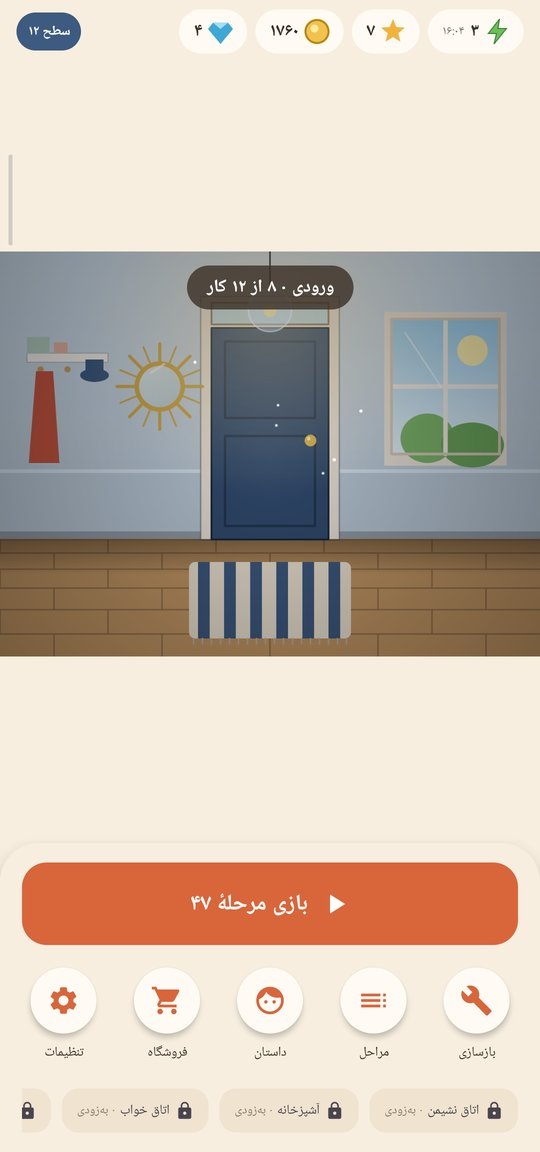
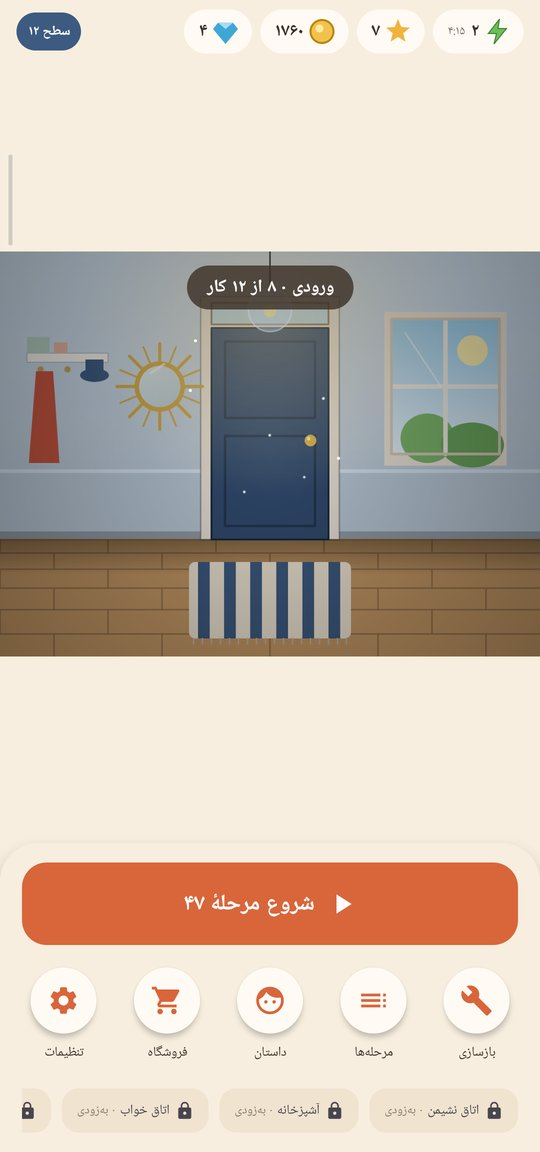
Rewrite site copy in a more natural voice (English and Persian)

diff --git a/app.js b/app.js
@@ -4,28 +4,25 @@ const INTL_LOCALE = { en: "en", fa: "fa-IR" };
 
 const STRINGS = {
   en: {
-    "meta.title": "Hotarego Games — cozy indie mobile games",
-    "meta.description": "Hotarego Games is an indie studio making cozy puzzle games for Android, named after Hotarego in Hormozgan, Iran.",
+    "meta.title": "Hotarego Games",
+    "meta.description": "We make puzzle games for Android. Our first one, Dream Home, is on the way.",
     "lang.label": "Language",
     "lang.system": "System default",
     "hero.logoAlt": "Hotarego Games logo: mountains, date palms, village houses and a stream",
     "hero.title": "Hotarego Games",
-    "hero.tagline": "Cozy puzzle games for Android, from a small indie studio named after Hotarego in Hormozgan, Iran.",
-    "hero.linksLabel": "Studio links",
-    "hero.seeGames": "See the games",
+    "hero.tagline": "We make puzzle games for Android. Right now that means Dream Home.",
+    "hero.linksLabel": "Links",
+    "hero.seeGames": "Our games",
     "hero.github": "GitHub",
     "games.title": "Games",
-    "games.loading": "Loading games…",
-    "games.empty": "New games are on the way.",
-    "games.error": "Couldn't load the game list. Please refresh.",
-    "about.title": "Why “Hotarego”?",
+    "games.loading": "Loading…",
+    "games.empty": "Nothing here yet. Check back soon.",
+    "games.error": "The game list didn't load. Try refreshing the page.",
+    "about.title": "Where the name comes from",
     "about.origin":
-      'Hotarego (<span lang="fa" dir="rtl">هوتارگو</span>) is the local name of a place in the north-east of Hormozgan province, Iran. ' +
-      'Its Persian name is Ābtārikān (<span lang="fa" dir="rtl">آبتاریکان</span>). We named our studio after it.',
-    "about.craft": "We make small, handcrafted games that are easy to pick up, satisfying to master and made to be enjoyed at your own pace.",
-    "about.fair": "Fair, transparent game economies",
-    "about.handcrafted": "Handcrafted, tested content",
-    "about.cozy": "Cozy art and calm sound",
+      'Hotarego (<span lang="fa" dir="rtl">هوتارگو</span>) is what locals call a place in the north-east of Hormozgan, Iran. ' +
+      'In Persian it\'s Ābtārikān (<span lang="fa" dir="rtl">آبتاریکان</span>). We named ourselves after it.',
+    "about.craft": "We like puzzle games you can play on a short break, so that's the kind we make.",
     "lightbox.label": "Screenshot",
     "lightbox.close": "Close",
     "status.released": "Released",
@@ -44,31 +41,28 @@ const STRINGS = {
     footer: (year) => `© ${year} Hotarego Games`,
   },
   fa: {
-    "meta.title": "بازیهای هوتارگو — بازیهای موبایلی دنج و مستقل",
-    "meta.description": "بازیهای هوتارگو یک استودیوی مستقل است که بازیهای پازل دنج برای اندروید میسازد و نامش را از هوتارگو در هرمزگان ایران گرفته است.",
+    "meta.title": "بازیهای هوتارگو",
+    "meta.description": "برای اندروید بازی پازلی میسازیم. اولینش، «خانهٔ رؤیایی»، در راه است.",
     "lang.label": "زبان",
-    "lang.system": "پیشفرض دستگاه",
+    "lang.system": "زبان دستگاه",
     "hero.logoAlt": "نشان بازیهای هوتارگو: کوهها، نخلها، خانههای روستا و یک جوی آب",
     "hero.title": "بازیهای هوتارگو",
-    "hero.tagline": "بازیهای پازل دنج برای اندروید، از یک استودیوی مستقل کوچک که نامش را از هوتارگو در هرمزگان ایران گرفته است.",
-    "hero.linksLabel": "پیوندهای استودیو",
-    "hero.seeGames": "دیدن بازیها",
+    "hero.tagline": "برای اندروید بازی پازلی میسازیم. فعلاً سرمان گرم «خانهٔ رؤیایی» است.",
+    "hero.linksLabel": "پیوندها",
+    "hero.seeGames": "بازیهایمان",
     "hero.github": "گیتهاب",
     "games.title": "بازیها",
-    "games.loading": "در حال بارگذاری بازیها…",
-    "games.empty": "بازیهای تازه در راهاند.",
-    "games.error": "فهرست بازیها بارگذاری نشد. لطفاً صفحه را دوباره باز کنید.",
-    "about.title": "چرا «هوتارگو»؟",
-    "about.origin": "هوتارگو نام محلی جایی در شمالشرقی استان هرمزگان ایران است. نام فارسی آن «آبتاریکان» است. ما نام استودیومان را از آن گرفتهایم.",
-    "about.craft": "ما بازیهای کوچک و دستسازی میسازیم که شروعشان آسان است، استاد شدن در آنها لذتبخش است و میشود با حوصلهٔ خودتان از آنها لذت ببرید.",
-    "about.fair": "اقتصاد بازی منصفانه و شفاف",
-    "about.handcrafted": "محتوای دستساز و آزموده",
-    "about.cozy": "تصاویر دنج و صدای آرام",
+    "games.loading": "یک لحظه…",
+    "games.empty": "هنوز بازیای اینجا نیست. بهزودی سر بزنید.",
+    "games.error": "فهرست بازیها باز نشد. صفحه را یک بار دیگر باز کنید.",
+    "about.title": "اسم «هوتارگو» از کجا آمده؟",
+    "about.origin": "هوتارگو اسم محلی جایی در شمالشرق هرمزگان است؛ در فارسی به آن «آبتاریکان» میگویند. اسم گروهمان را از همانجا برداشتهایم.",
+    "about.craft": "خودمان بازیهای پازلی را دوست داریم که بشود توی یک استراحت کوتاه بازیشان کرد؛ بازیهای خودمان را هم همینطوری میسازیم.",
     "lightbox.label": "تصویر بازی",
     "lightbox.close": "بستن",
     "status.released": "منتشر شده",
     "status.beta": "بتا",
-    "status.in-development": "در حال ساخت",
+    "status.in-development": "در دست ساخت",
     "status.concept": "ایده",
     "link.playStore": "گوگلپلی",
     "link.download": "دانلود",
@@ -76,7 +70,7 @@ const STRINGS = {
     "link.repo": "کد منبع",
     gameCount: (n) => `${n.toLocaleString("fa-IR")} بازی`,
     version: (v) => `نسخهٔ ${v}`,
-    updated: (date) => `بهروزرسانی: ${date}`,
+    updated: (date) => `آخرین تغییر: ${date}`,
     shotAlt: (title, i) => `تصویر ${i} از ${title}`,
     shotOpen: (title, i) => `باز کردن تصویر ${i} از ${title}`,
     footer: (year) => `© ${year} بازیهای هوتارگو`,

diff --git a/index.html b/index.html
@@ -3,10 +3,10 @@
 <head>
   <meta charset="utf-8">
   <meta name="viewport" content="width=device-width, initial-scale=1">
-  <title>Hotarego Games — cozy indie mobile games</title>
-  <meta name="description" content="Hotarego Games is an indie studio making cozy puzzle games for Android, named after Hotarego in Hormozgan, Iran.">
+  <title>Hotarego Games</title>
+  <meta name="description" content="We make puzzle games for Android. Our first one, Dream Home, is on the way.">
   <meta property="og:title" content="Hotarego Games">
-  <meta property="og:description" content="Cozy indie mobile games from a studio named after Hotarego, Hormozgan.">
+  <meta property="og:description" content="We make puzzle games for Android. Our first one, Dream Home, is on the way.">
   <meta property="og:image" content="https://hotarego.github.io/assets/avatar.jpg">
   <meta property="og:locale" content="en_US">
   <meta property="og:locale:alternate" content="fa_IR">
@@ -54,9 +54,9 @@
     <img class="hero__logo" src="assets/logo.svg" alt="Hotarego Games logo: mountains, date palms, village houses and a stream" data-i18n-attr="alt:hero.logoAlt" width="168" height="168">
     <h1 class="hero__title" data-i18n="hero.title">Hotarego Games</h1>
     <p class="hero__native"><span id="hero-native" lang="fa" dir="rtl">هوتارگو</span></p>
-    <p class="hero__tagline" data-i18n="hero.tagline">Cozy puzzle games for Android, from a small indie studio named after Hotarego in Hormozgan, Iran.</p>
-    <nav class="hero__links" aria-label="Studio links" data-i18n-attr="aria-label:hero.linksLabel">
-      <a class="button button--primary" href="#games" data-i18n="hero.seeGames">See the games</a>
+    <p class="hero__tagline" data-i18n="hero.tagline">We make puzzle games for Android. Right now that means Dream Home.</p>
+    <nav class="hero__links" aria-label="Links" data-i18n-attr="aria-label:hero.linksLabel">
+      <a class="button button--primary" href="#games" data-i18n="hero.seeGames">Our games</a>
       <a class="button" href="https://github.com/hotarego" rel="me" data-i18n="hero.github">GitHub</a>
     </nav>
   </header>
@@ -78,7 +78,7 @@
         <p class="games__count" id="games-count"></p>
       </div>
       <div class="games__list" id="games-list" aria-live="polite">
-        <p class="games__empty" data-i18n="games.loading">Loading games…</p>
+        <p class="games__empty" data-i18n="games.loading">Loading…</p>
       </div>
       <noscript>
         <p class="games__empty">Enable JavaScript to see the game list.</p>
@@ -87,21 +87,13 @@
     </section>
 
     <section class="about" aria-labelledby="about-title">
-      <h2 id="about-title" data-i18n="about.title">Why “Hotarego”?</h2>
+      <h2 id="about-title" data-i18n="about.title">Where the name comes from</h2>
       <p data-i18n-html="about.origin">
-        Hotarego (<span lang="fa" dir="rtl">هوتارگو</span>) is the local name of a place in the
-        north-east of Hormozgan province, Iran. Its Persian name is Ābtārikān
-        (<span lang="fa" dir="rtl">آبتاریکان</span>). We named our studio after it.
+        Hotarego (<span lang="fa" dir="rtl">هوتارگو</span>) is what locals call a place in the
+        north-east of Hormozgan, Iran. In Persian it's Ābtārikān
+        (<span lang="fa" dir="rtl">آبتاریکان</span>). We named ourselves after it.
       </p>
-      <p data-i18n="about.craft">
-        We make small, handcrafted games that are easy to pick up, satisfying to master and made
-        to be enjoyed at your own pace.
-      </p>
-      <ul class="about__values">
-        <li data-i18n="about.fair">Fair, transparent game economies</li>
-        <li data-i18n="about.handcrafted">Handcrafted, tested content</li>
-        <li data-i18n="about.cozy">Cozy art and calm sound</li>
-      </ul>
+      <p data-i18n="about.craft">We like puzzle games you can play on a short break, so that's the kind we make.</p>
     </section>
   </main>
 

diff --git a/styles.css b/styles.css
@@ -287,16 +287,6 @@ h2 { font-size: 1.8rem; margin: 0; }
 
 .about p { max-width: 65ch; color: var(--muted); }
 
-.about__values { display: flex; flex-wrap: wrap; gap: 10px; margin: 0; padding: 0; list-style: none; }
-
-.about__values li {
-  padding: 6px 14px;
-  border-radius: 999px;
-  background: rgba(255, 200, 87, 0.12);
-  color: var(--amber);
-  font-weight: 700;
-}
-
 .footer { padding: 24px; text-align: center; color: var(--muted); font-size: 0.9rem; }
 
 .lightbox {
